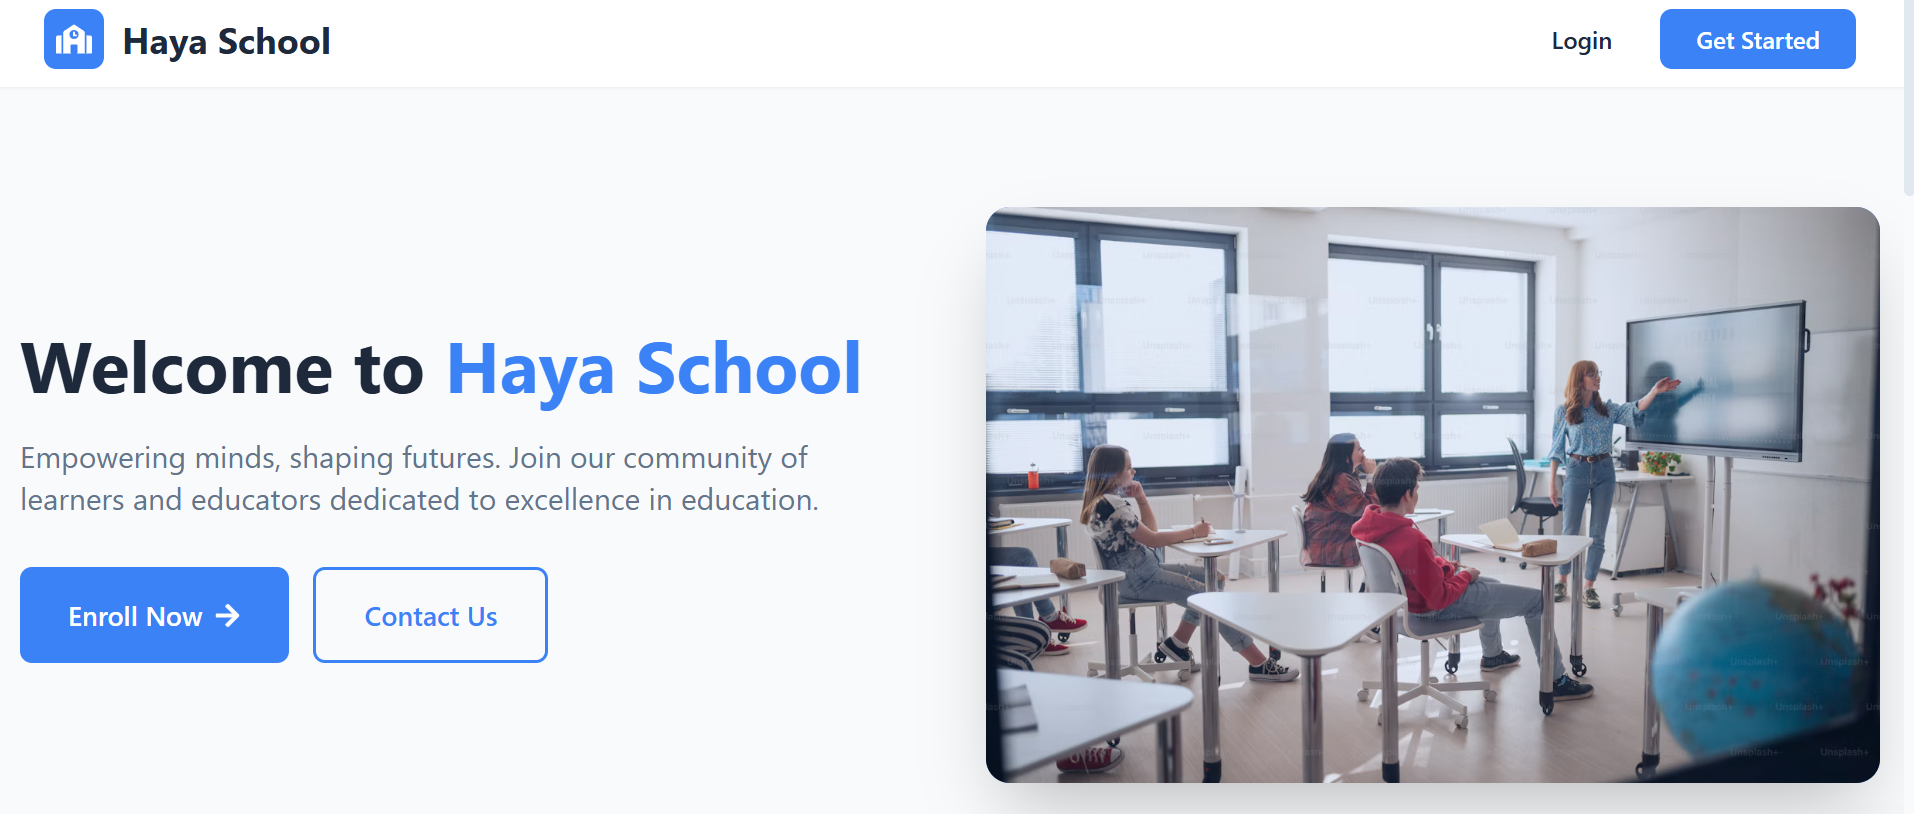
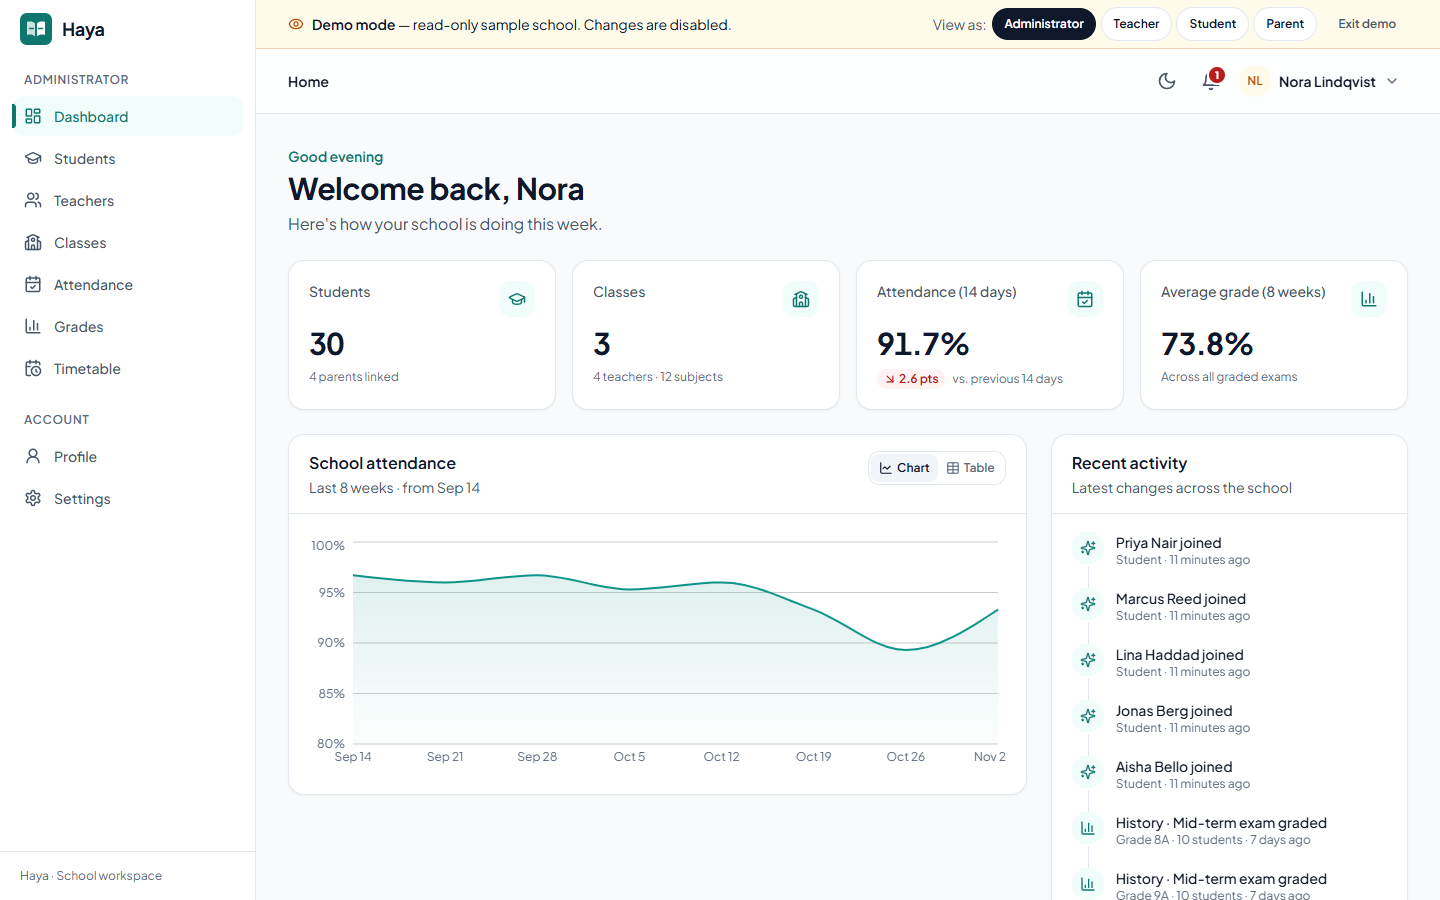
Update Haya project for the new UI and Haya Insights AI features

diff --git a/src/data/projects.ts b/src/data/projects.ts
@@ -9,21 +9,22 @@ export const projects: Project[] = [
   {
     slug: 'haya-school-management',
     category: 'School management system',
-    image: { src: '/projects/haya.webp', alt: 'Haya School landing page with a welcome headline, Enroll Now and Contact Us buttons, and a classroom photo', width: 1200, height: 510 },
+    image: { src: '/projects/haya.webp', alt: "Haya administrator dashboard with student, class, attendance and average-grade cards, an 8-week school attendance chart and a recent activity feed", width: 1200, height: 750 },
     name: 'Haya — School Management System',
     summary:
-      'A full-stack school management system with separate dashboards for administrators, teachers, students and parents.',
+      'A full-stack school management app for administrators, teachers, students and parents, covering attendance, exams and gradebooks, timetables and AI-written progress summaries.',
     problem:
-      'Schools juggle students, teachers, classes, attendance and announcements across paper and spreadsheets. Each role needs to see different information, and only that information.',
+      'Schools juggle attendance registers, grades and timetables across paper and spreadsheets, so students who are falling behind are often noticed only when the report card arrives. Each role also needs to see different information, and only that information.',
     contribution:
-      'Built the whole system: the Express and Prisma REST API, the database schema, JWT authentication with role-based access, and the React and Redux frontend.',
+      'Built the whole system: the Express 5 and Prisma API on PostgreSQL, cookie-based authentication with central access rules, the React dashboards for all four roles, the Claude-powered Haya Insights features, and the tests and CI pipeline.',
     decisions: [
-      'Four roles (Admin, Teacher, Student, Parent) with role-based access control enforced on the API, not just hidden in the UI.',
-      'JWT authentication with bcrypt-hashed passwords, plus Helmet for secure HTTP headers.',
-      'Prisma as the data layer so the schema, migrations and queries stay typed and in one place.',
-      'Redux Toolkit for shared state, and five switchable themes for a customizable interface.',
+      'Haya Insights: plain SQL rules flag students whose attendance or marks are dropping, and Claude only explains the numbers in plain language, so the AI never decides who is flagged. Progress summaries stream token by token and teachers can copy them as report-card drafts.',
+      'The AI only receives a minimal snapshot (first name, class level, attendance and grades, no emails or ids), follows the same access rules as the data, is cached until grades or attendance change, and is rate-limited per user.',
+      'Sessions live in an httpOnly, SameSite cookie with an Origin check against CSRF, and every list and record is scoped centrally to what the caller may see, not just checked by role.',
+      'A read-only, one-click demo for every role, light and dark themes, keyboard and reduced-motion support, and layouts tested from 375 px phones to desktops.',
+      'Integration tests with Vitest and Supertest against a real Postgres, Playwright and axe accessibility checks, and GitHub Actions CI.',
     ],
-    stack: ['React', 'Redux Toolkit', 'Tailwind CSS', 'Vite', 'Node.js', 'Express', 'Prisma'],
+    stack: ['React', 'Redux Toolkit', 'Tailwind CSS', 'Recharts', 'Node.js', 'Express', 'Prisma', 'PostgreSQL', 'Claude API'],
     links: {
       repo: 'https://github.com/Sol-Reactor/school-management',
       live: 'https://manageschool-fawn.vercel.app',
